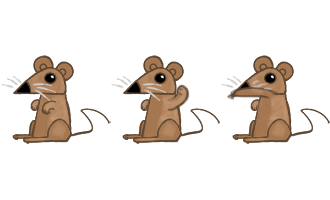
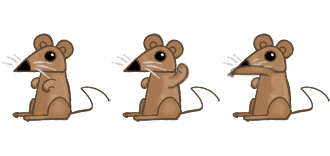
add weapons and throwing speed

diff --git a/game.js b/game.js
@@ -51,8 +51,31 @@ var manifest = {
         "hotdog":{
             "strip": "animations/hotDog.png",
             "frames": 1,
-            "msPerFrame": 70,
+            "msPerFrame": 100
+        },
+        "tomato-r":{
+            "strip": "animations/tomato.png",
+            "frames": 1,
+            "msPerFrame": 100
+        },
+        "tomato-l":{
+            "strip": "animations/tomato.png",
+            "frames": 1,
+            "msPerFrame": 100,
+            "flip": "horizontal"
+        },
+        "spaghetti-r":{
+            "strip": "animations/spaghetti.png",
+            "frames": 1,
+            "msPerFrame": 100
+        },
+        "spaghetti-l":{
+            "strip": "animations/spaghetti.png",
+            "frames": 1,
+            "msPerFrame": 100,
+            "flip": "horizontal"
         }
+
 
     }
 };
@@ -67,9 +90,10 @@ function centerText(context, text, offsetX, offsetY) {
 }
 
 // Starts a throw by creating AnimatedEntity and giving it velocity.
-function chuck(player, vx) { // TODO: will need to receive a 'weapon' attribute.
-    var projectile = new Splat.AnimatedEntity(player.x, player.y, 20, 20, game.animations.get("hotdog"), 10, 10);
-    projectile.vx = vx;
+function chuck(player) { // TODO: will need to receive a 'weapon' attribute.
+
+    var projectile = new Splat.AnimatedEntity(player.x, player.y, 20, 20, game.animations.get(player.arsenal[player.selectedWeapon].weapon), 10, 10);
+    projectile.vx = player.arsenal[player.selectedWeapon].speed;
     projectile.vy = 0;
     player.projectiles.push(projectile);
 }
@@ -145,27 +169,39 @@ game.scenes.add("main", new Splat.Scene(canvas, function() {
     this.upAnim = game.animations.get("mouseUp");
     this.downAnim = game.animations.get("mouseDown");
     var hotdogImg = game.animations.get("hotdog");
+    var tomatoImageR = game.animations.get("tomato-r");
+    var tomatoImagel = game.animations.get("tomato-l");
+    var spaghettiImageR = game.animations.get("spaghetti-r");
+    var spaghettiImageL = game.animations.get("spaghetti-l");
 
     //create entities
     this.bg = new Splat.AnimatedEntity(0,0,canvas.width,canvas.height,bgImage,0,0);
-    this.hotdogIndicator1 = new Splat.AnimatedEntity(50, canvas.height- 50, hotdogImg.width, hotdogImg.height, hotdogImg,0,0);
-    this.hotdogIndicator2 = new Splat.AnimatedEntity(canvas.width -70,canvas.height-50,hotdogImg.width,hotdogImg.height,hotdogImg,0,0);
+    //indicators
+    this.hotdogIndicator1 = new Splat.AnimatedEntity(50, canvas.height- (hotdogImg.height+30), hotdogImg.width, hotdogImg.height, hotdogImg,0,0);
+    this.hotdogIndicator2 = new Splat.AnimatedEntity(canvas.width -(hotdogImg.width+30),canvas.height-(hotdogImg.height+30),hotdogImg.width,hotdogImg.height,hotdogImg,0,0);
+    this.tomatoIndicator1 = new Splat.AnimatedEntity(50, canvas.height- (tomatoImageR.height+30), tomatoImageR.width, tomatoImageR.height, tomatoImageR,0,0);
+    this.tomatoIndicator2 = new Splat.AnimatedEntity(canvas.width -(tomatoImagel.width+30),canvas.height-(tomatoImagel.height+30),tomatoImagel.width,tomatoImagel.height,tomatoImagel,0,0);
+    this.spaghettiIndicator1 = new Splat.AnimatedEntity(50, canvas.height- (spaghettiImageR.height+30), spaghettiImageR.width, spaghettiImageR.height, spaghettiImageR,0,0);
+    this.spaghettiIndicator2 = new Splat.AnimatedEntity(canvas.width -(spaghettiImageL.width+30),canvas.height-(spaghettiImageL.height+30),spaghettiImageL.width,spaghettiImageL.height,spaghettiImageL,0,0);
     //player1
     this.player1 = new Splat.AnimatedEntity(0,this.canvas.height/2 -p1Img.height/2,p1Img.width/2,p1Img.height,p1Img,0,0);
     this.player1.arsenal = [
 	{
-	    weapon:"weapon1"
+	    weapon:"hotdog",
+	    speed:0.8
 	},
 	{
-	    weapon:"weapon2"
+	    weapon:"tomato-r",
+	    speed:0.5
 	},
 	{
-	    weapon:"weapon3"
+	    weapon:"spaghetti-r",
+	    speed:1.4
 	}
     ];
     this.player1.selectedWeapon = 0;
     this.player1.chuck = function(){
-	chuck(this,0.8);
+	chuck(this);
     };
     this.player1.projectiles = [];
 
@@ -173,18 +209,21 @@ game.scenes.add("main", new Splat.Scene(canvas, function() {
     this.player2 = new Splat.AnimatedEntity(canvas.width - p2Img.width,this.canvas.height/2 -p2Img.height/2,p2Img.width/2,p2Img.height,p2Img,0,0);
     this.player2.arsenal = [
 	{
-	    weapon:"weapon1"
+	    weapon:"hotdog",
+	    speed:-0.8
 	},
 	{
-	    weapon:"weapon2"
+	    weapon:"tomato-l",
+	    speed:-0.5
 	},
 	{
-	    weapon:"weapon3"
+	    weapon:"spaghetti-l",
+	    speed:-1.4
 	}
     ];
     this.player2.selectedWeapon = 0;
     this.player2.chuck = function(){
-	chuck(this,-0.8);
+	chuck(this);
     };
     this.player2.projectiles = [];
     
@@ -278,29 +317,22 @@ game.scenes.add("main", new Splat.Scene(canvas, function() {
 		this.hotdogIndicator1.draw(context);
 		break;
     case 1:
-		context.fillStyle = "#00ff00";
+		this.tomatoIndicator1.draw(context);
 		break;
     case 2:
-		context.fillStyle = "#0000ff";
+    	this.spaghettiIndicator1.draw(context);
 		break;
     }
-    if(this.player1.selectedWeapon !== 0){
-    	context.fillRect(50,canvas.height- 50,20,20);
-	}
     switch(this.player2.selectedWeapon){
     case 0:
 		this.hotdogIndicator2.draw(context);
 		break;
     case 1:
-		context.fillStyle = "#00ff00";
+		this.tomatoIndicator2.draw(context);
 		break;
     case 2:
-		context.fillStyle = "#0000ff";
+		this.spaghettiIndicator2.draw(context);
 		break;
-    }
-    if(this.player2.selectedWeapon !== 0){
-    context.fillRect(canvas.width -70,canvas.height-50,20,20);
-
     }
     chucker(this.player1, context);
     chucker(this.player2, context);
